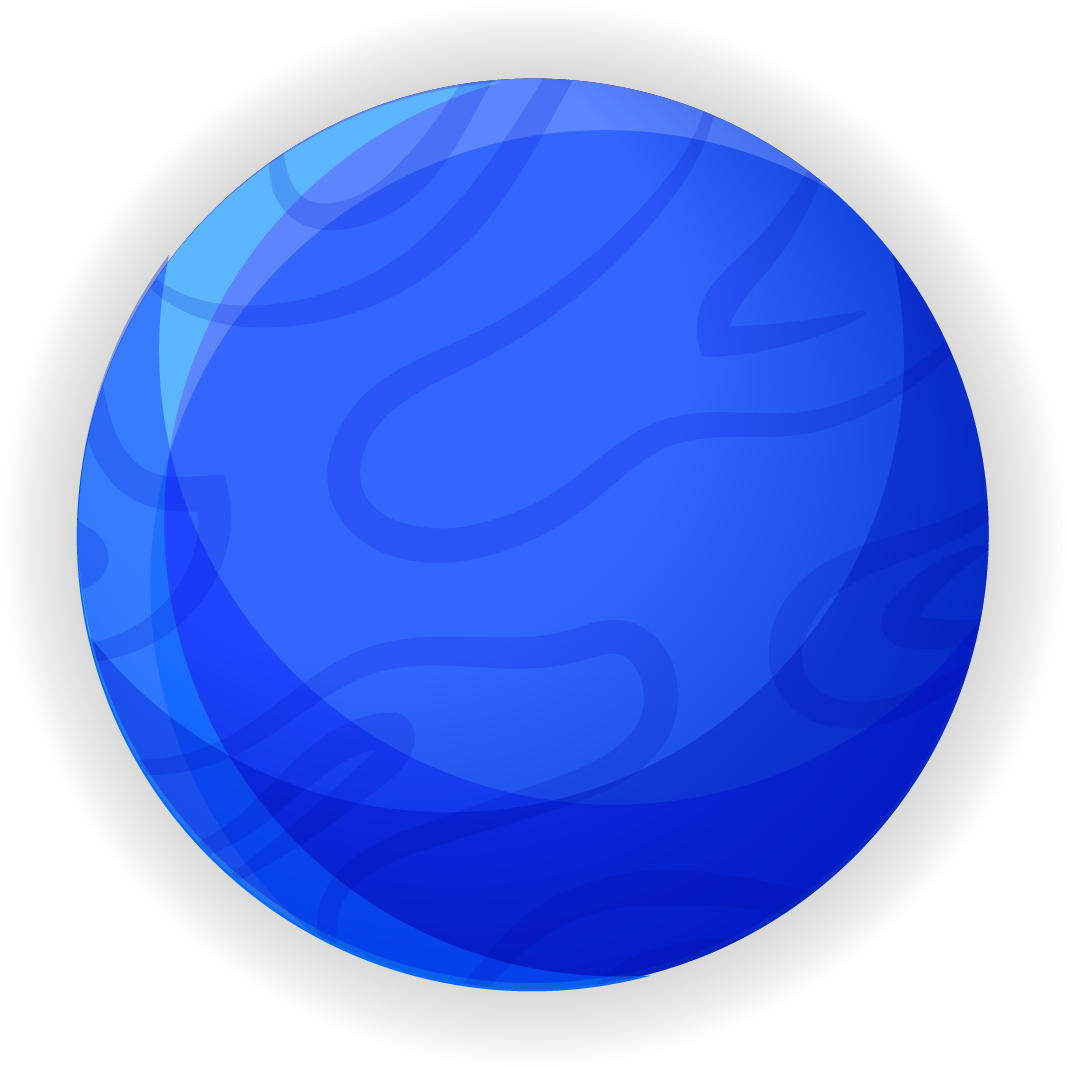
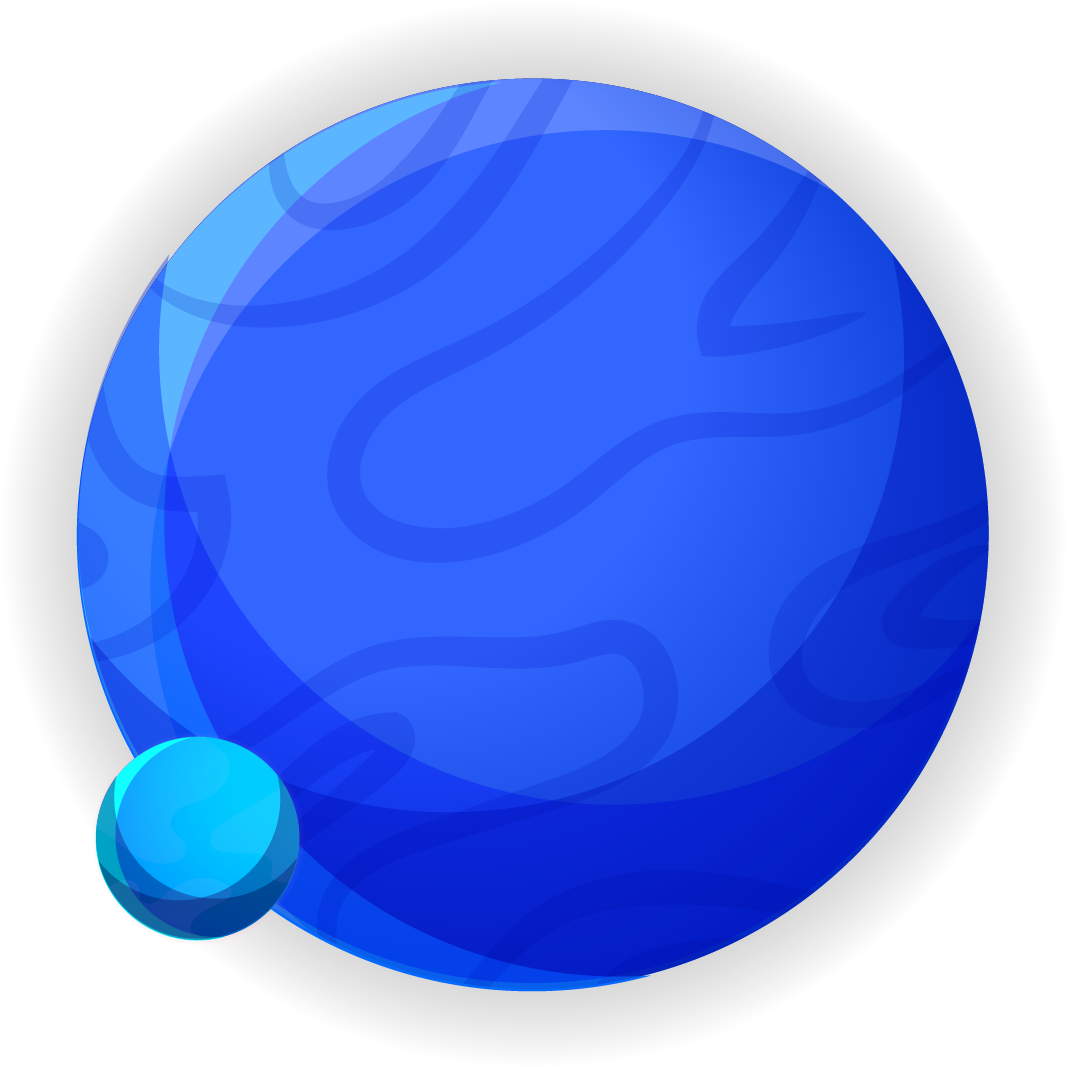
Finalise 1st version.

Changed region(s): [[0.0619, 0.6804, 0.2784, 0.8969]]

diff --git a/index.html b/index.html
@@ -25,7 +25,7 @@
   <nav class="navbar navbar-expand-lg fixed-top navbar-transparent " color-on-scroll="100">
     <div class="container">
       <div class="navbar-translate">
-        <a class="navbar-brand" href="#" rel="tooltip" title="Portfolio of Yuexin Du" data-placement="bottom" target="_blank">
+        <a class="navbar-brand" href="#" rel="tooltip" title="Portfolio of Yuexin Du" data-placement="bottom">
           <span>Mokulawa•</span> Planet of Yuexin
         </a>
         <button class="navbar-toggler navbar-toggler" type="button" data-toggle="collapse" data-target="#navigation" aria-controls="navigation-index" aria-expanded="false" aria-label="Toggle navigation">
@@ -203,7 +203,7 @@
                       <span >Comic drawing</span>
                       <div class="progress">
                         <div class="progress-bar progress-bar-warning" role="progressbar" aria-valuenow="60" aria-valuemin="0" aria-valuemax="100" style="width: 85%;">
-                          <span class="progress-value">Quite good</span>
+                          <span class="progress-value">it's fun </span>
                         </div>
                       </div>
                     </div>
@@ -211,7 +211,7 @@
                       <span >Graphic Design</span>
                       <div class="progress">
                         <div class="progress-bar progress-bar-warning" role="progressbar" aria-valuenow="60" aria-valuemin="0" aria-valuemax="100" style="width: 80%;">
-                          <span class="progress-value">Quite good!</span>
+                          <span class="progress-value">Depends on luck</span>
                         </div>
                       </div>
                     </div>
@@ -228,15 +228,15 @@
                     <div class="progress-container progress-success">
                       <span > 2D Animation (Adobe AE)</span>
                       <div class="progress">
-                        <div class="progress-bar progress-bar-warning" role="progressbar" aria-valuenow="60" aria-valuemin="0" aria-valuemax="100" style="width: 75%;">
-                          <span class="progress-value">Quite good!</span>
+                        <div class="progress-bar progress-bar-warning" role="progressbar" aria-valuenow="60" aria-valuemin="0" aria-valuemax="100" style="width: 65%;">
+                          <span class="progress-value">Ok-ish</span>
                         </div>
                       </div>
                     </div>
                     <div class="progress-container progress-success">
                       <span > 3D Animation (Blender)</span>
                       <div class="progress">
-                        <div class="progress-bar progress-bar-warning" role="progressbar" aria-valuenow="60" aria-valuemin="0" aria-valuemax="100" style="width: 65%;">
+                        <div class="progress-bar progress-bar-warning" role="progressbar" aria-valuenow="60" aria-valuemin="0" aria-valuemax="100" style="width: 50%;">
                           <span class="progress-value">Need to catch back</span>
                         </div>
                       </div>
@@ -318,9 +318,8 @@
               <br/>• User interview
               <br/>• Rapid prototyping
               <br/>• User test</p>
-            <div class="btn-wrapper pt-3">
-              <button href="javascript:void(0)" class="btn btn-primary btn-round"> Check it!
-              </button>
+            <div class="btn-wrapper pt-3" >
+              <a class="btn btn-info btn-round " disabled href="https://vimeo.com/226122792" role="button" target="_blank">check it</a> 
             </div>
           </div>
         </div>
@@ -340,9 +339,8 @@
             <p class="profile-description text-left">Implement a new mobile strategy for ABB drive unit, which contains smart data solution that can increase sales, delighting user flow that allow users and partners to learn more effectively, and at the same time, provides a fresh professional looking interface.
                 <br/>• UI & UX design for both IOS and Android
                 <br/>• UI & UX design for web live-supporting portal</p>
-            <div class="btn-wrapper pt-3">
-              <button href="javascript:void(0)" class="btn btn-round btn-info"> Check it!
-              </button>
+            <div class="btn-wrapper pt-3" >
+              <a class="btn btn-danger btn-round " href="javascript:void(0)" disabled role="button" target="_blank">check it</a> 
             </div>
           </div>
           <div class="col-md-6">
@@ -370,14 +368,9 @@
               <br/>• CX journey development
               <br/>• Concept visualisation
               <br/>• UI concept wireframe</p>
-          <div class="btn-wrapper pt-3">
-            <button href="javascript:void(0)" class="btn btn-simple btn-primary">
-              <i class="tim-icons icon-book-bookmark"></i> Bookmark
-            </button>
-            <button href="javascript:void(0)" class="btn btn-simple btn-info">
-              <i class="tim-icons icon-bulb-63"></i> Check it!
-            </button>
-          </div>
+              <div class="btn-wrapper pt-3" >
+                <a class="btn btn-info btn-round " href="javascript:void(0)" disabled role="button" target="_blank">check it</a> 
+              </div>
         </div>
       </div>
     </div>
@@ -397,10 +390,9 @@
                   <br/>• Service design
                   <br/>• UI & UX design
                   <br/>• Data visualisation</p>
-              <div class="btn-wrapper pt-3">
-                <button href="javascript:void(0)" class="btn btn-round btn-info"> Check it!
-                </button>
-              </div>
+                <div class="btn-wrapper pt-3" >
+                  <a class="btn btn-success btn-round " href="https://www.behance.net/gallery/59398233/EzSup-Nestehackthesupply" role="button" target="_blank">check it</a> 
+                </div>
             </div>
             <div class="col-md-6">
               <div class="row justify-content-between align-items-center">
@@ -426,13 +418,13 @@
             <p class="profile-description text-left">Interaction and visual design for a Terveystalo research and data analysis tool. In the project we integrated a new visual experience for analysing massive data in complex combinations.
               <br/>• UI & UX design
               <br/>• Data visualisation</p>
-            <div class="btn-wrapper pt-3">
-              <button href="javascript:void(0)" class="btn btn-primary btn-round"> Check it!
-              </button>
-            </div>
+            <div class="btn-wrapper pt-3" >
+                <a class="btn btn-info btn-round " href="javascript:void(0)" disabled role="button" target="_blank">check it</a> 
+              </div>
           </div>
         </div>
-     </div>
+      </div>
+     
       
 
  <!--project 6 -->
@@ -452,8 +444,7 @@
                   <br/>• Some front-end coding
               </p>
               <div class="btn-wrapper pt-3">
-                <button href="javascript:void(0)" class="btn btn-round btn-info"> Check it!
-                </button>
+                <a class="btn btn-success btn-round " href="javascript:void(0)" disabled role="button" target="_blank">check it</a> 
               </div>
             </div>
             <div class="col-md-6">
@@ -464,6 +455,30 @@
           </div>
         </div>
       </div>
+
+   <!--project 7-->
+   <div class="container">
+    <div class="row row-grid justify-content-between align-items-center">
+      <div class="col-md-6">
+        <div class="row justify-content-between align-items-center">
+            <img class="img-center img-fluid " src="./assets/img/planet7.png" style="width: 250px;" >
+        </div>
+      </div>
+      <div class="profile-page col-md-5">
+        <h1 class="profile-title text-left">PowerCraft</h1>
+        <h5 class="text-on-back">07</h5>
+        <p class="profile-description text-left">PowerCraft is a mobile strategy game inspired by real-world energy challenges which intend engage and educate players through entertainment. It was selected as the Finalist in Global Business Challenge 2017, and the whole game development took 6 weeks.
+          <br/>• Concept art
+          <br/>• 3D modeling & Animation
+          <br/>• 2D Animation
+          <br/>• Game UI design
+        </p>
+        <div class="btn-wrapper pt-3" >
+            <a class="btn btn-warning btn-round " href="https://www.behance.net/gallery/57073077/Power-Craft" role="button" target="_blank">check it</a> 
+          </div>
+      </div>
+    </div>
+  </div>
 
   <!-- backup code
     <div class="section s">
@@ -538,7 +553,7 @@
         <div class="squares square7"></div>
         <div class="container">
           <div class="bgimg-2 ontent-center brand">
-              <h1 class="quote">'The purpose of art is washing the dust of daily life off our souls.'</h1>
+              <h1 class="quote">"The purpose of art is washing the dust of daily life off our souls."</h1>
               <h1 class="quote">– Pablo Picasso</h1>
           </div>
         </div>

diff --git a/assets/css/blk-design-system.css b/assets/css/blk-design-system.css
@@ -2278,6 +2278,7 @@ textarea.form-control {
   font-size: 0.875rem;
   line-height: 1.35em;
   border-radius: 0.25rem;
+  z-index: 1000;
   transition: color 0.15s ease-in-out, background-color 0.15s ease-in-out, border-color 0.15s ease-in-out, box-shadow 0.15s ease-in-out;
 }
 @media screen and (prefers-reduced-motion: reduce) {

diff --git a/assets/css/customise.css b/assets/css/customise.css
@@ -71,8 +71,8 @@ background-color: #000000;
   }
 
   .quote {
-    color: #f20605;
-    font-weight: 500;
+    color:#3358f4;
+    font-weight: 800;
     font-size: 1.5rem;
     text-align: center;
     position: relative;
